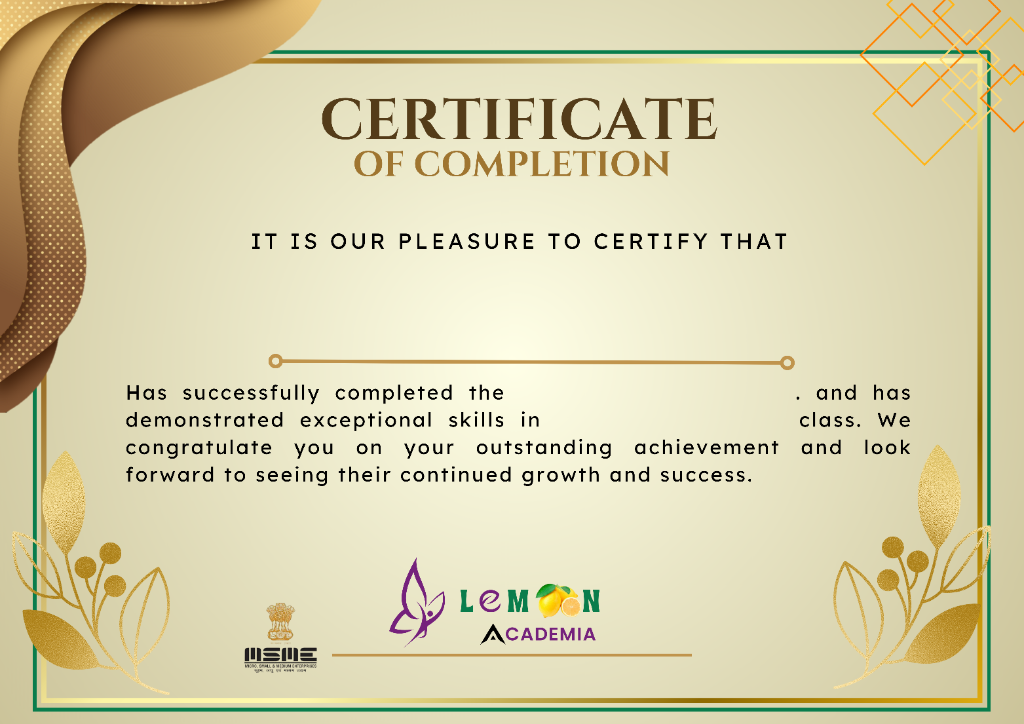
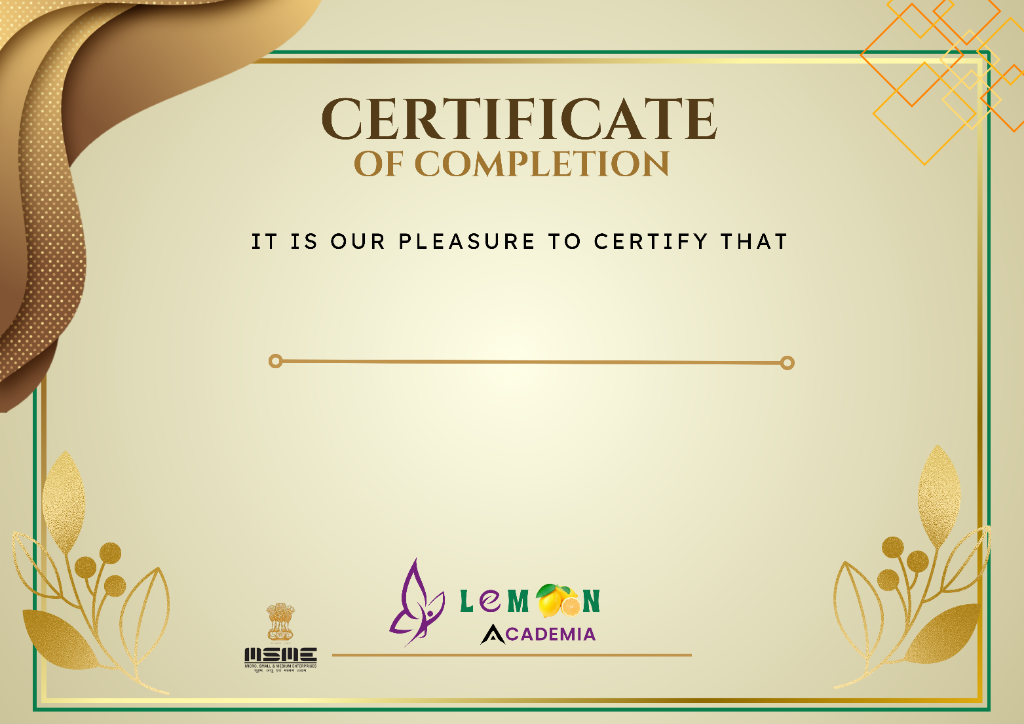
feat(certificate): use clean plain template with dynamic student and course typography

Changed region(s): [[0.125, 0.5166, 0.75, 0.6685], [0.7812, 0.5166, 0.9062, 0.6381]]

diff --git a/src/app/features/student/my-course-detail/my-course-detail.component.ts b/src/app/features/student/my-course-detail/my-course-detail.component.ts
@@ -391,22 +391,64 @@ export class MyCourseDetailComponent implements OnInit {
       ctx.textAlign = 'center';
       ctx.textBaseline = 'middle';
       ctx.fillStyle = '#1E170C';
-      ctx.font = 'bold 42px "Cinzel", "Playfair Display", Georgia, serif';
+      ctx.font = 'bold 44px "Cinzel", "Playfair Display", Georgia, serif';
       ctx.fillText(studentName, centerX, studentNameY);
 
-      // 3. Course Name directly inside the template's blank slot on line 4 (no overwriting text or background box)
-      const courseGapX = canvas.width * 0.575;
-      const courseNameY = canvas.height * 0.540;
-      const maxGapWidth = canvas.width * 0.38;
+      // 3. Dynamic Narrative with Course Name below the gold divider on the plain template
+      ctx.textAlign = 'center';
+      ctx.textBaseline = 'middle';
 
-      let fontSize = 23;
-      ctx.font = `bold ${fontSize}px "Cinzel", "Playfair Display", Georgia, serif`;
-      while (ctx.measureText(courseTitle).width > maxGapWidth && fontSize > 13) {
-        fontSize -= 1;
+      const line1Y = canvas.height * 0.548;
+      const prefixText = 'Has successfully completed the ';
+      ctx.font = '500 20px -apple-system, BlinkMacSystemFont, "Segoe UI", Roboto, sans-serif';
+      const prefixWidth = ctx.measureText(prefixText).width;
+
+      ctx.font = 'bold 22px "Cinzel", "Playfair Display", Georgia, serif';
+      const titleWidth = ctx.measureText(`"${courseTitle}"`).width;
+      const totalLine1Width = prefixWidth + titleWidth;
+
+      if (totalLine1Width < canvas.width * 0.68) {
+        const startX = centerX - (totalLine1Width / 2);
+
+        ctx.textAlign = 'left';
+        ctx.font = '500 20px -apple-system, BlinkMacSystemFont, "Segoe UI", Roboto, sans-serif';
+        ctx.fillStyle = '#2B2317';
+        ctx.fillText(prefixText, startX, line1Y);
+
+        ctx.font = 'bold 22px "Cinzel", "Playfair Display", Georgia, serif';
+        ctx.fillStyle = '#6E5410';
+        ctx.fillText(`"${courseTitle}"`, startX + prefixWidth, line1Y);
+
+        // Line 2
+        ctx.textAlign = 'center';
+        ctx.font = '500 20px -apple-system, BlinkMacSystemFont, "Segoe UI", Roboto, sans-serif';
+        ctx.fillStyle = '#2B2317';
+        ctx.fillText('and has demonstrated exceptional skills in class. We congratulate you on your', centerX, canvas.height * 0.585);
+
+        // Line 3
+        ctx.fillText('outstanding achievement and look forward to seeing their continued growth and success.', centerX, canvas.height * 0.620);
+      } else {
+        // Course title is long, put course title on its own featured line
+        ctx.textAlign = 'center';
+        ctx.font = '500 20px -apple-system, BlinkMacSystemFont, "Segoe UI", Roboto, sans-serif';
+        ctx.fillStyle = '#2B2317';
+        ctx.fillText('Has successfully completed the', centerX, canvas.height * 0.535);
+
+        let fontSize = 24;
         ctx.font = `bold ${fontSize}px "Cinzel", "Playfair Display", Georgia, serif`;
-      }
+        while (ctx.measureText(`"${courseTitle}"`).width > canvas.width * 0.70 && fontSize > 14) {
+          fontSize -= 1;
+          ctx.font = `bold ${fontSize}px "Cinzel", "Playfair Display", Georgia, serif`;
+        }
+        ctx.fillStyle = '#6E5410';
+        ctx.fillText(`"${courseTitle}"`, centerX, canvas.height * 0.570);
 
-      ctx.fillText(courseTitle, courseGapX, courseNameY);
+        ctx.font = '500 19px -apple-system, BlinkMacSystemFont, "Segoe UI", Roboto, sans-serif';
+        ctx.fillStyle = '#2B2317';
+        ctx.fillText('and has demonstrated exceptional skills in class. We congratulate you on your', centerX, canvas.height * 0.605);
+
+        ctx.fillText('outstanding achievement and look forward to seeing their continued growth and success.', centerX, canvas.height * 0.638);
+      }
 
       // Trigger download
       const link = document.createElement('a');

diff --git a/src/app/features/student/my-course-detail/my-course-detail.component.html b/src/app/features/student/my-course-detail/my-course-detail.component.html
@@ -337,17 +337,21 @@
           />
           
           <!-- Overlay Student Name in blank space above gold divider -->
-          <div class="absolute inset-x-0 top-[40%] sm:top-[41%] md:top-[41.5%] flex items-center justify-center pointer-events-none px-6">
+          <div class="absolute inset-x-0 top-[38.5%] sm:top-[39.5%] md:top-[40.5%] flex items-center justify-center pointer-events-none px-6">
             <span class="font-serif font-bold text-base sm:text-2xl md:text-3xl lg:text-4xl text-[#1E170C] tracking-wide">
               {{ authService.userName() || 'Artisan Scholar' }}
             </span>
           </div>
 
-          <!-- Overlay Course Name in the exact blank slot on line 4 without covering template text -->
-          <div class="absolute left-[36%] right-[22%] top-[52.5%] sm:top-[53.2%] md:top-[53.6%] flex items-center justify-center pointer-events-none overflow-hidden px-1">
-            <span class="font-serif font-bold text-[8px] sm:text-[12px] md:text-[14px] lg:text-[16px] text-[#1E170C] truncate max-w-full text-center">
-              {{ course()?.title || 'Masterclass Workshop' }}
-            </span>
+          <!-- Overlay Beautiful Narrative Paragraph with Dynamic Course Name on plain template -->
+          <div class="absolute inset-x-[12%] sm:inset-x-[14%] md:inset-x-[16%] top-[53%] sm:top-[53.5%] md:top-[54%] bottom-[22%] flex flex-col justify-start items-center text-center px-2 pointer-events-none">
+            <p class="text-[9px] sm:text-[13px] md:text-[15px] lg:text-[16px] leading-relaxed text-[#2B2317] font-medium max-w-2xl">
+              Has successfully completed the 
+              <span class="font-bold text-[#6E5410] font-serif tracking-wide underline decoration-[#6E5410]/40 decoration-1 underline-offset-2">
+                {{ course()?.title || 'Masterclass Workshop' }}
+              </span> 
+              and has demonstrated exceptional skills in class. We congratulate you on your outstanding achievement and look forward to seeing their continued growth and success.
+            </p>
           </div>
 
           <!-- Lock Watermark Overlay when Locked -->
